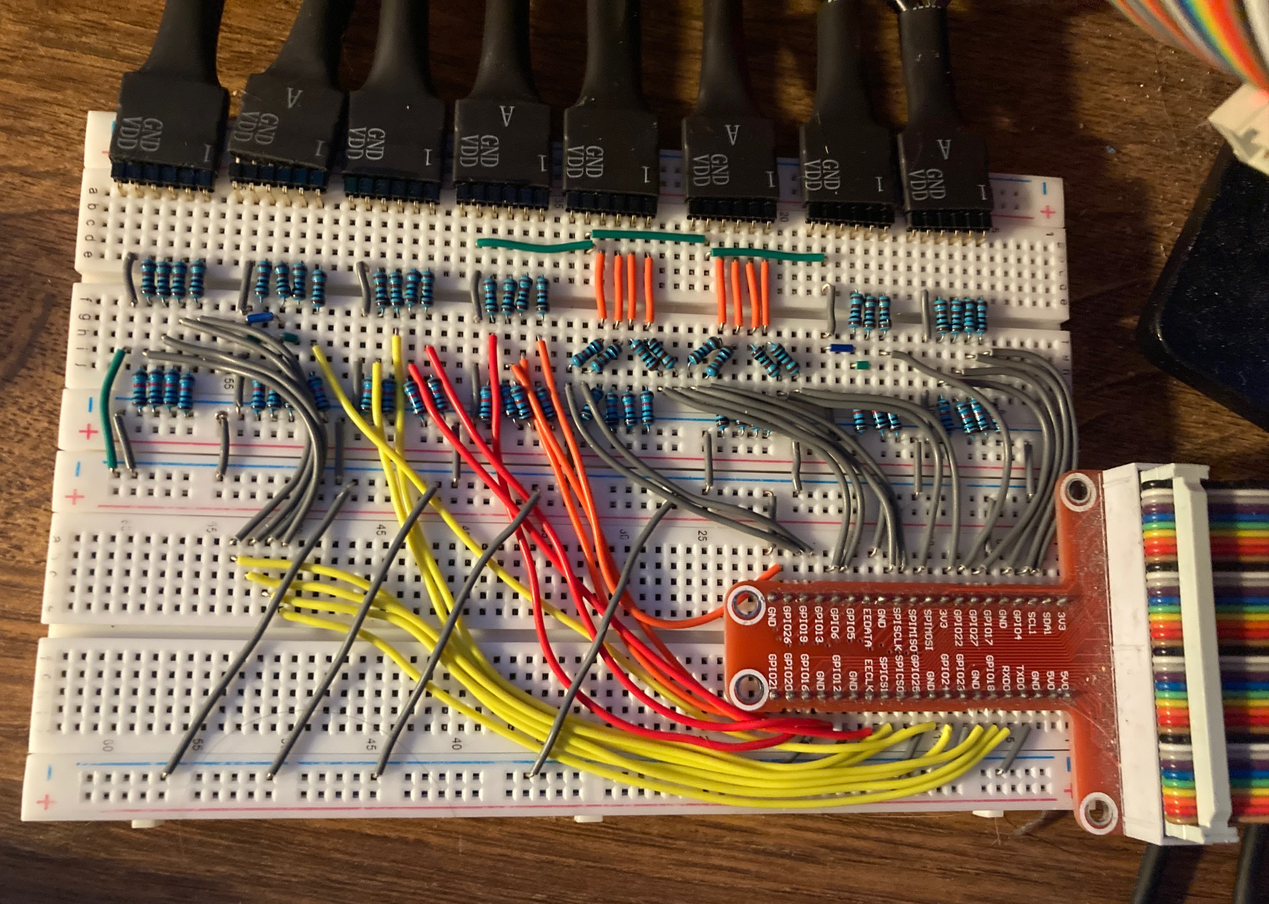
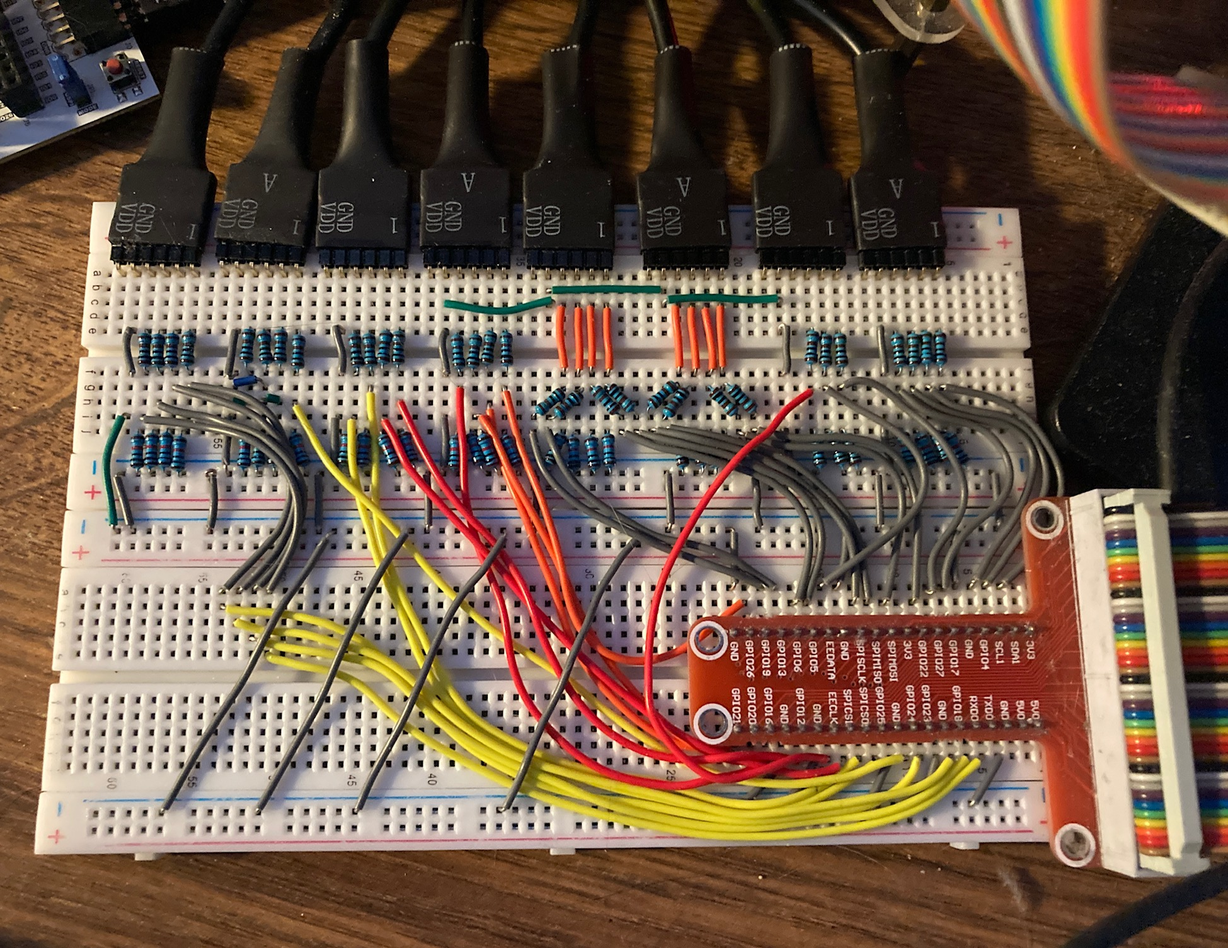
updating

diff --git a/section-3-web-server/control-an-fpga/css/containers.css b/section-3-web-server/control-an-fpga/css/containers.css
@@ -84,6 +84,16 @@
     height: auto;
 }
 
+.picture_container_2 {
+  width: 70%;
+  margin:auto;
+}
+
+.picture_container_2 img {
+  max-width: 100%;
+  height: auto;
+}
+
 /* #### COMMENT CONTAINER ##################################### */
 /* Part of Jeff's main site */
 

diff --git a/section-3-web-server/control-an-fpga/index.php b/section-3-web-server/control-an-fpga/index.php
@@ -135,6 +135,13 @@
 
                         </div>
 
+                        <!-- ------------------------------------------------------------------------------------------------------- -->
+                        <div class="picture_container_2">
+
+                            <img src="images/arty-s7-breadboard-and-raspberry-pi.jpg" alt="arty-s7-breadboard-and-raspberry-pi"/>
+
+                        </div>
+
                     </article>
 
                 </div>

diff --git a/README.md b/README.md
@@ -79,77 +79,79 @@ in the following four sections,
 
 ## SOFTWARE STACK
 
-* DEVELOPMENT
+* SECTION 1 - The FPGA
+  * [Verilog](https://github.com/JeffDeCola/my-cheat-sheets/tree/master/hardware/development/languages/verilog-cheat-sheet)
+  * [Xilinx Vivado](https://github.com/JeffDeCola/my-cheat-sheets/tree/master/hardware/tools/synthesis/xilinx-vivado-cheat-sheet)
+  * [Digilent ARTY-S7](https://github.com/JeffDeCola/my-cheat-sheets/tree/master/hardware/development/fpga-development-boards/digilent-arty-s7-cheat-sheet)
+* SECTION 2 - The Raspberry Pi
   * [go](https://github.com/JeffDeCola/my-cheat-sheets/tree/master/software/development/languages/go-cheat-sheet)
-  * gotests
-* OPERATIONS
-  * [concourse](https://github.com/JeffDeCola/my-cheat-sheets/tree/master/software/operations/continuous-integration-continuous-deployment/concourse-cheat-sheet)
-    (optional)
   * [docker](https://github.com/JeffDeCola/my-cheat-sheets/tree/master/software/operations/orchestration/builds-deployment-containers/docker-cheat-sheet)
-* SERVICES
   * [dockerhub](https://hub.docker.com/)
-  * [github](https://github.com/)
-
-Where,
-
-* **GUI**
-  _golang net/http package and ReactJS_
-* **Routing & REST API framework**
-  _golang gorilla/mux package_
-* **Backend**
-  _golang_
-* **Database**
-  _N/A_
+  * [concourse](https://github.com/JeffDeCola/my-cheat-sheets/tree/master/software/operations/continuous-integration-continuous-deployment/concourse-cheat-sheet)
+* SECTION 3 - The Web Server
+  * php, css, js
+  * [bluehost](https://www.bluehost.com/)
+* SECTION 4 - The Browser
+  * js, html, css
 
 ## SECTION I - THE FPGA
 
 I burned my
 [programable-8-bit-microprocessor](https://github.com/JeffDeCola/my-systemverilog-examples/tree/master/systems/microprocessors/programable_8_bit_microprocessor) to an FPGA.
-Refer to that repo on how i did that.
+Refer to that repo on how I did that.
+
+Summary,
 
 * I designed the 8-bit microprocessor in
   [Verilog](https://github.com/JeffDeCola/my-cheat-sheets/tree/master/hardware/development/languages/verilog-cheat-sheet)
   (An HDL language)
-* Used the
+* I used the
   [Xilinx Vivado](https://github.com/JeffDeCola/my-cheat-sheets/tree/master/hardware/tools/synthesis/xilinx-vivado-cheat-sheet)
   IDE to synthesize and burn/flash the FPGA
-* Used a
+* I used the
   [Digilent ARTY-S7](https://github.com/JeffDeCola/my-cheat-sheets/tree/master/hardware/development/fpga-development-boards/digilent-arty-s7-cheat-sheet)
   FPGA development board
 
 ### VERILOG
 
-This is the structural level of the 8-bit microprocessor I designed in verilog,
+This is the high level architecture of the 8-bit microprocessor
+I designed in verilog,
 
 ![IMAGE - Top-Level-Block-Diagram-of-the-8-bit-Microprocessor.jpg - IMAGE](https://github.com/JeffDeCola/my-verilog-examples/blob/master/docs/pics/systems/Top-Level-Block-Diagram-of-the-8-bit-Microprocessor.jpg?raw=true)
 
+### INPUT/OUTPUT
+
+* **INPUT**
+  * SYSTEM_CLK
+  * [3:0] OPCODE
+  * GO_BAR
+  * RESET
+  * JAM
+  * [7:0] DATA_IN_A
+  * [7:0] DATA_IN_B
+* **OUTPUT**
+  * [7:0] DATA_OUT
+
 ### ARTY S7-50 FPGA DEVELOPMENT BOARD
 
-I used an arty S7-50 FPGA development board to burn a Spartan-7 50 FPGA,
+I burned the microprocessor to an FPGA on an
+Arty S7-50 FPGA development board.
 
 ![IMAGE - digilent-arty-s7-50.jpg - IMAGE](https://github.com/JeffDeCola/my-cheat-sheets/blob/master/docs/pics/digilent-arty-s7-50.jpg?raw=true)
 
 ## SECTION II - THE RASPBERRY PI
 
-The Raspberry Pi shall do two things,
+The Raspberry Pi has two main functions,
 
-* Control 28 pins of the I/O of the FPGA (GPIO to PMOD) using GO
+* Controls 28 pins of the I/O of the FPGA (GPIO to PMOD) via GO
 * Provide an interface to the webserver (REST JSON API)
 
-### RASPBERRY PI TO FPGA DEV BOARD INTERFACE (GPIO to PMOD)
+These function will be written in go and placed in a docker image.
+
+### BREADBOARD (GPIO to PMOD)
 
 That is a total of 31 pins, but I only have 28 GPIO pins.
-Hence, I will tie 3 of the DATA_IN_A pins to gnd.
-
-* **OUTPUT (SET)**
-  * [3:0] OPCODE
-  * GO_BAR
-  * RESET
-  * JAM
-  * [7:0] DATA_IN_A (Bits 4,5,6 hardwired to ground)
-  * [7:0] DATA_IN_B
-* **INPUT (GET)**
-  * [7:0] DATA_OUT
+Hence, I tied 3 of the DATA_IN_A pins to gnd.
 
 The pin list between the Raspberry Pi and the FPGA development
 board is as follows,
@@ -213,51 +215,65 @@ The result,
 
 ![IMAGE - breadboard.jpg - IMAGE](docs/pics/breadboard.jpg)
 
-### CONTROL I/O VIA GOLANG
+![IMAGE - arty-s7-breadboard-and-raspberry-pi.jpg - IMAGE](docs/pics/arty-s7-breadboard-and-raspberry-pi.jpg)
+
+### CONTROL FPGA I/O VIA GO
+
+The Raspberry Pi will control the FPGA via GO.
+
+The GO code is located at
+[crypto-miner-manager-code](
+
+
+### WEB SERVER INTERFACE (REST JSON API)
+
+tbd.
+
+### RUN
 
 To
-[run.sh](https://github.com/JeffDeCola/section-2-backend-server/blob/master/section-2-backend-server/run.sh),
+[run.sh](https://github.com/JeffDeCola/crypto-miner-manager/blob/master/crypto-miner-manager-code/run.sh),
 
 ```bash
-cd section-2-backend-server
+cd crypto-miner-manager-code
 go run main.go
 ```
 
 As a placeholder, every 2 seconds it will print,
 
 ```txt
-???????
+    INFO[0000] Let's Start this!
+    Hello everyone, count is: 1
+    Hello everyone, count is: 2
+    Hello everyone, count is: 3
+    etc...
 ```
 
 ### CREATE BINARY
 
 To
-[create-binary.sh](https://github.com/JeffDeCola/section-2-backend-server/blob/master/section-2-backend-server/bin/create-binary.sh),
+[create-binary.sh](https://github.com/JeffDeCola/crypto-miner-manager/blob/master/crypto-miner-manager-code/bin/create-binary.sh),
 
 ```bash
-cd section-2-backend-server/bin
-go build -o section-2-backend-server ../main.go
-./section-2-backend-server
+cd crypto-miner-manager-code/bin
+go build -o crypto-miner-manager ../main.go
+./crypto-miner-manager
 ```
 
 This binary will not be used during a docker build
 since it creates it's own.
-
-### RASPBERRY PI TO WEBSERVER INTERFACE (REST JSON API)
-
-tbd.
 
 ### STEP 1 - TEST
 
 To create unit `_test` files,
 
 ```bash
-cd control-fpga-via-raspi-and-webserver-code
+cd crypto-miner-manager-code
 gotests -w -all main.go
 ```
 
 To run
-[unit-tests.sh](https://github.com/JeffDeCola/control-fpga-via-raspi-and-webserver/tree/master/control-fpga-via-raspi-and-webserver-code/test/unit-tests.sh),
+[unit-tests.sh](https://github.com/JeffDeCola/crypto-miner-manager/tree/master/crypto-miner-manager-code/test/unit-tests.sh),
 
 ```bash
 go test -cover ./... | tee test/test_coverage.txt
@@ -267,23 +283,23 @@ cat test/test_coverage.txt
 ### STEP 2 - BUILD (DOCKER IMAGE VIA DOCKERFILE)
 
 To
-[build.sh](https://github.com/JeffDeCola/control-fpga-via-raspi-and-webserver/blob/master/control-fpga-via-raspi-and-webserver-code/build/build.sh)
+[build.sh](https://github.com/JeffDeCola/crypto-miner-manager/blob/master/crypto-miner-manager-code/build/build.sh)
 with a
-[Dockerfile](https://github.com/JeffDeCola/control-fpga-via-raspi-and-webserver/blob/master/control-fpga-via-raspi-and-webserver-code/build/Dockerfile),
+[Dockerfile](https://github.com/JeffDeCola/crypto-miner-manager/blob/master/crypto-miner-manager-code/build/Dockerfile),
 
 ```bash
-cd control-fpga-via-raspi-and-webserver-code
-docker build -f build/Dockerfile -t jeffdecola/control-fpga-via-raspi-and-webserver .
+cd crypto-miner-manager-code
+docker build -f build/Dockerfile -t jeffdecola/crypto-miner-manager .
 ```
 
 You can check and test this docker image,
 
 ```bash
-docker images jeffdecola/control-fpga-via-raspi-and-webserver:latest
-docker run --name control-fpga-via-raspi-and-webserver -dit jeffdecola/control-fpga-via-raspi-and-webserver
-docker exec -i -t control-fpga-via-raspi-and-webserver /bin/bash
-docker logs control-fpga-via-raspi-and-webserver
-docker rm -f control-fpga-via-raspi-and-webserver
+docker images jeffdecola/crypto-miner-manager:latest
+docker run --name crypto-miner-manager -dit jeffdecola/crypto-miner-manager
+docker exec -i -t crypto-miner-manager /bin/bash
+docker logs crypto-miner-manager
+docker rm -f crypto-miner-manager
 ```
 
 In **stage 1**, rather than copy a binary into a docker image (because
@@ -293,7 +309,7 @@ docker image,
 ```bash
 FROM golang:alpine AS builder
 RUN go get -d -v
-RUN go build -o /go/bin/control-fpga-via-raspi-and-webserver main.go
+RUN go build -o /go/bin/crypto-miner-manager main.go
 ```
 
 In **stage 2**, the Dockerfile will copy the binary created in
@@ -309,33 +325,33 @@ docker login
 ```
 
 To
-[push.sh](https://github.com/JeffDeCola/control-fpga-via-raspi-and-webserver/blob/master/control-fpga-via-raspi-and-webserver-code/push/push.sh),
+[push.sh](https://github.com/JeffDeCola/crypto-miner-manager/blob/master/crypto-miner-manager-code/push/push.sh),
 
 ```bash
-docker push jeffdecola/control-fpga-via-raspi-and-webserver
+docker push jeffdecola/crypto-miner-manager
 ```
 
 Check the
-[control-fpga-via-raspi-and-webserver docker image](https://hub.docker.com/r/jeffdecola/control-fpga-via-raspi-and-webserver)
+[crypto-miner-manager docker image](https://hub.docker.com/r/jeffdecola/crypto-miner-manager)
 at DockerHub.
 
-### STEP 4 - DEPLOY (TO DOCKER)
+### STEP 4 - DEPLOY (TO DOCKER ON RASPBERRY PI)
 
 To
-[deploy.sh](https://github.com/JeffDeCola/control-fpga-via-raspi-and-webserver/blob/master/control-fpga-via-raspi-and-webserver-code/deploy/deploy.sh),
+[deploy.sh](https://github.com/JeffDeCola/crypto-miner-manager/blob/master/crypto-miner-manager-code/deploy/deploy.sh),
 
 ```bash
-cd control-fpga-via-raspi-and-webserver-code
-docker run --name control-fpga-via-raspi-and-webserver -dit jeffdecola/control-fpga-via-raspi-and-webserver
-docker exec -i -t control-fpga-via-raspi-and-webserver /bin/bash
-docker logs control-fpga-via-raspi-and-webserver
-docker rm -f control-fpga-via-raspi-and-webserver
+cd crypto-miner-manager-code
+docker run --name crypto-miner-manager -dit jeffdecola/crypto-miner-manager
+docker exec -i -t crypto-miner-manager /bin/bash
+docker logs crypto-miner-manager
+docker rm -f crypto-miner-manager
 ```
 
 ### CONTINUOUS INTEGRATION & DEPLOYMENT
 
 Refer to
-[ci-README.md](https://github.com/JeffDeCola/control-fpga-via-raspi-and-webserver/blob/master/ci-README.md)
+[ci-README.md](https://github.com/JeffDeCola/crypto-miner-manager/blob/master/ci-README.md)
 on how I automated the above steps.
 
 ## SECTION III - THE WEB SERVER
